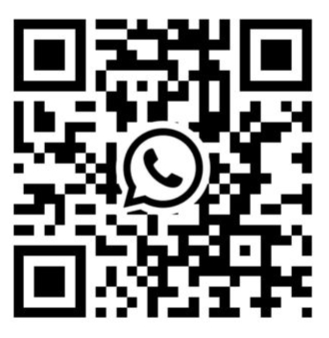
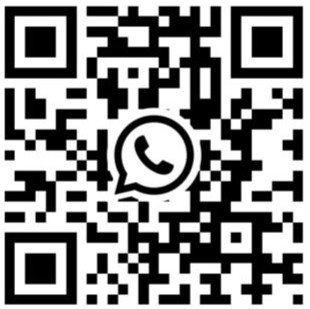
firs commit

diff --git a/application/libraries/tcpdf/invoice/GstInvoice.php b/application/libraries/tcpdf/invoice/GstInvoice.php
@@ -639,7 +639,7 @@ class GstInvoice extends MyPDF{
 		$tbl .= '</table>';
 
 
-		$tbl .= '<table nobr="true">
+		$tbl .= '<table cellpadding="8" nobr="true">
 	            <tbody>
 	                <tr nobr="true">
 	                    <td colspan="2" style="border-right:none;"><div style="font-size:10px;border-right:none;"><span style="color:rgb(0, 0, 128);font-style:italic;">RECIEVER’S NAME:</span><br><br/>';
@@ -668,15 +668,15 @@ class GstInvoice extends MyPDF{
 	        if ($show_paid_img) {
 	            $tbl .= '
 	                    <td colspan="4" class="text-center"><br>
-	                        <img src="'.base_url($store->qr_image).'" width="100" height="100">
+	                        <img src="'.base_url($store->qr_image).'" width="80" height="80">
 	                    </td>
 	                    <td colspan="4" class="text-center"><br>
-	                        <img src="'.base_url('uploads/paid.png').'" width="100" height="100">
+	                        <img src="'.base_url('uploads/paid.png').'" width="80" height="80">
 	                    </td>';
 	        } else {
 	            $tbl .= '
 	                    <td colspan="8" class="text-center"><br>
-	                        <img src="'.base_url($store->qr_image).'" width="100" height="100">
+	                        <img src="'.base_url($store->qr_image).'" width="80" height="80">
 	                    </td>';
 	        }
 	        $tbl .= '</tr>';
@@ -1073,7 +1073,7 @@ class GstInvoice extends MyPDF{
 	$tbl .= '</table>';
 
 		
-	$tbl .='<table nobr="true">
+	$tbl .='<table cellpadding="8" nobr="true">
 	            <tbody>
 	                <tr nobr="true">
 	                    <td colspan="2" style="border-right:none;"><div style="font-size:10px;border-right:none;"><span style="color:rgb(0, 0, 128);font-style:italic;">RECIEVER’S NAME:</span><br><br/>';
@@ -1102,15 +1102,15 @@ class GstInvoice extends MyPDF{
 	        if ($show_paid_img) {
 	            $tbl .= '
 	                    <td colspan="4" class="text-center"><br>
-	                        <img src="'.base_url($store->qr_image).'" width="100" height="100">
+	                        <img src="'.base_url($store->qr_image).'" width="80" height="80">
 	                    </td>
 	                    <td colspan="4" class="text-center"><br>
-	                        <img src="'.base_url('uploads/paid.png').'" width="100" height="100">
+	                        <img src="'.base_url('uploads/paid.png').'" width="80" height="80">
 	                    </td>';
 	        } else {
 	            $tbl .= '
 	                    <td colspan="8" class="text-center"><br>
-	                        <img src="'.base_url($store->qr_image).'" width="100" height="100">
+	                        <img src="'.base_url($store->qr_image).'" width="80" height="80">
 	                    </td>';
 	        }
 	        $tbl .= '</tr>';

diff --git a/application/logs/log-2026-07-20.php b/application/logs/log-2026-07-20.php
@@ -6,3 +6,5 @@ ERROR - 2026-07-20 17:34:49 --> Severity: Notice --> Undefined variable: warehou
 ERROR - 2026-07-20 17:35:00 --> Severity: Notice --> Undefined variable: warehouse_id F:\Projects\retail\application\views\pos.php 264
 ERROR - 2026-07-20 13:52:24 --> 404 Page Not Found: Faviconico/index
 ERROR - 2026-07-20 18:12:48 --> Severity: Notice --> Undefined variable: warehouse_id F:\Projects\retail\application\views\pos.php 264
+ERROR - 2026-07-20 14:54:55 --> 404 Page Not Found: Faviconico/index
+ERROR - 2026-07-20 14:55:10 --> 404 Page Not Found: Faviconico/index
